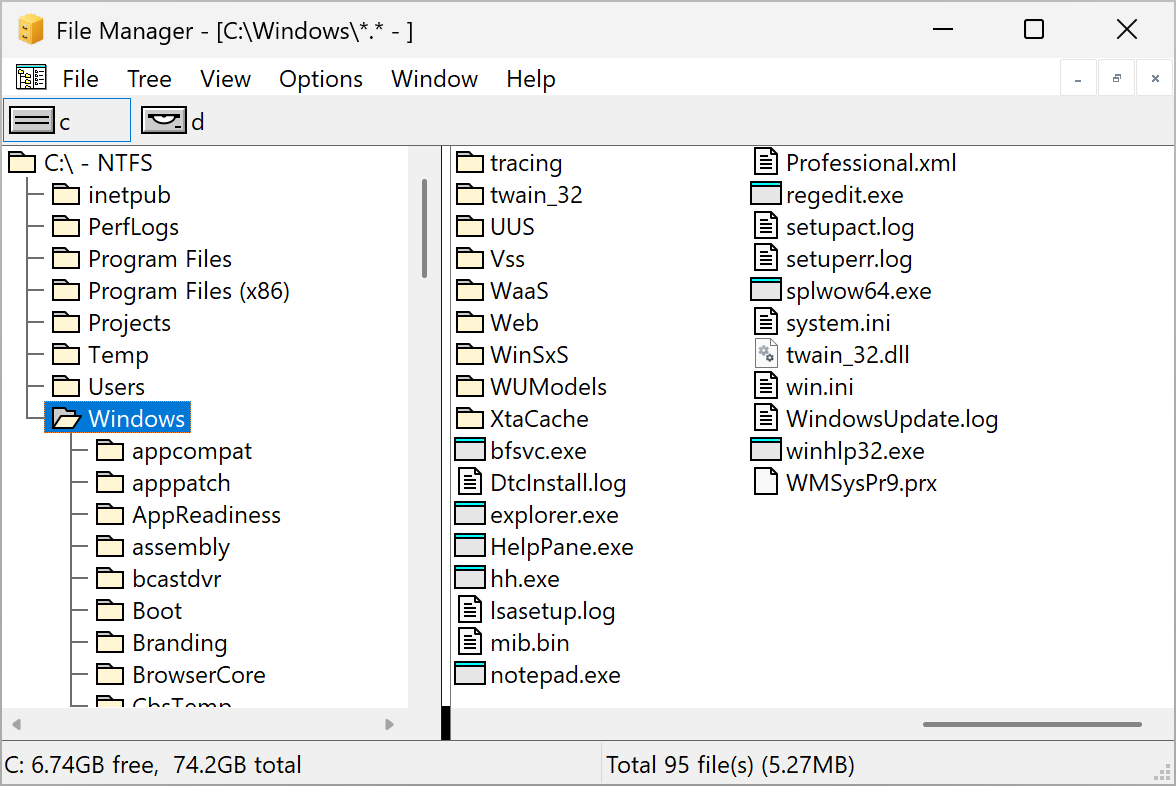
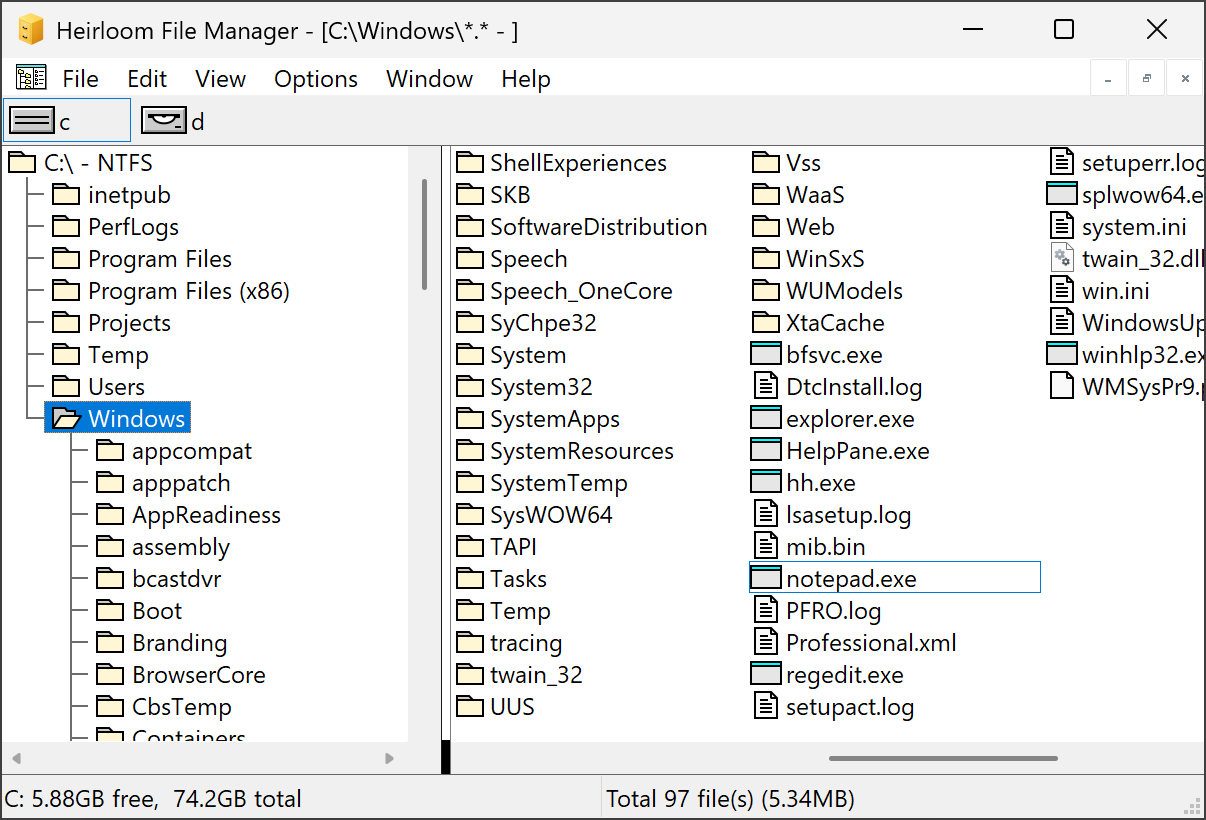
Rename the app

diff --git a/src/wfinfo.cpp b/src/wfinfo.cpp
@@ -1536,8 +1536,8 @@ BOOL NetLoad(VOID) {
         if (!lpfnWNetGetDirectoryTypeW || !lpfnWNetGetPropertyTextW || !lpfnWNetRestoreSingleConnectionW ||
             !lpfnWNetPropertyDialogW || !lpfnWNetGetConnection2W || !lpfnWNetFormatNetworkNameW) {
             MessageBox(
-                hwndFrame, TEXT("File Manager is incompatible with your operating system version."), TEXT("Error"),
-                MB_OK | MB_ICONERROR);
+                hwndFrame, TEXT("Heirloom File Manager is incompatible with your operating system version."),
+                TEXT("Error"), MB_OK | MB_ICONERROR);
             return FALSE;
         }
 

diff --git a/.github/README.md b/.github/README.md
@@ -1,6 +1,6 @@
-<h1 align="center"><img src="icon_small.jpg" width=64><br>File Manager</h1>
+<h1 align="center"><img src="icon_small.jpg" width=64><br>Heirloom File Manager</h1>
 
-<p align="center"><img src="screenshot.png" width=588></p>
+<p align="center"><img src="screenshot.png" width=603></p>
 
 A simple app for browsing, organizing, and manipulating files.
 It doesn't try to replace the modern File Explorer but offers a faster alternative for basic tasks.
@@ -9,12 +9,12 @@ This derivative of the [classic Windows File Manager (microsoft/winfile)](https:
 
 - High-DPI screen support
 - Recycle Bin
-- Drag-and-drop from File Manager into external applications
+- Drag-and-drop into external applications
 
 It also removes old features that are irrelevant today.
 
 ## License
 
-Copyright (c) Microsoft Corporation. All rights reserved.
+Free and open source under the [MIT](../LICENSE) license.
 
-Licensed under the [MIT](../LICENSE) License.
+&copy; Microsoft Corporation. All rights reserved.
